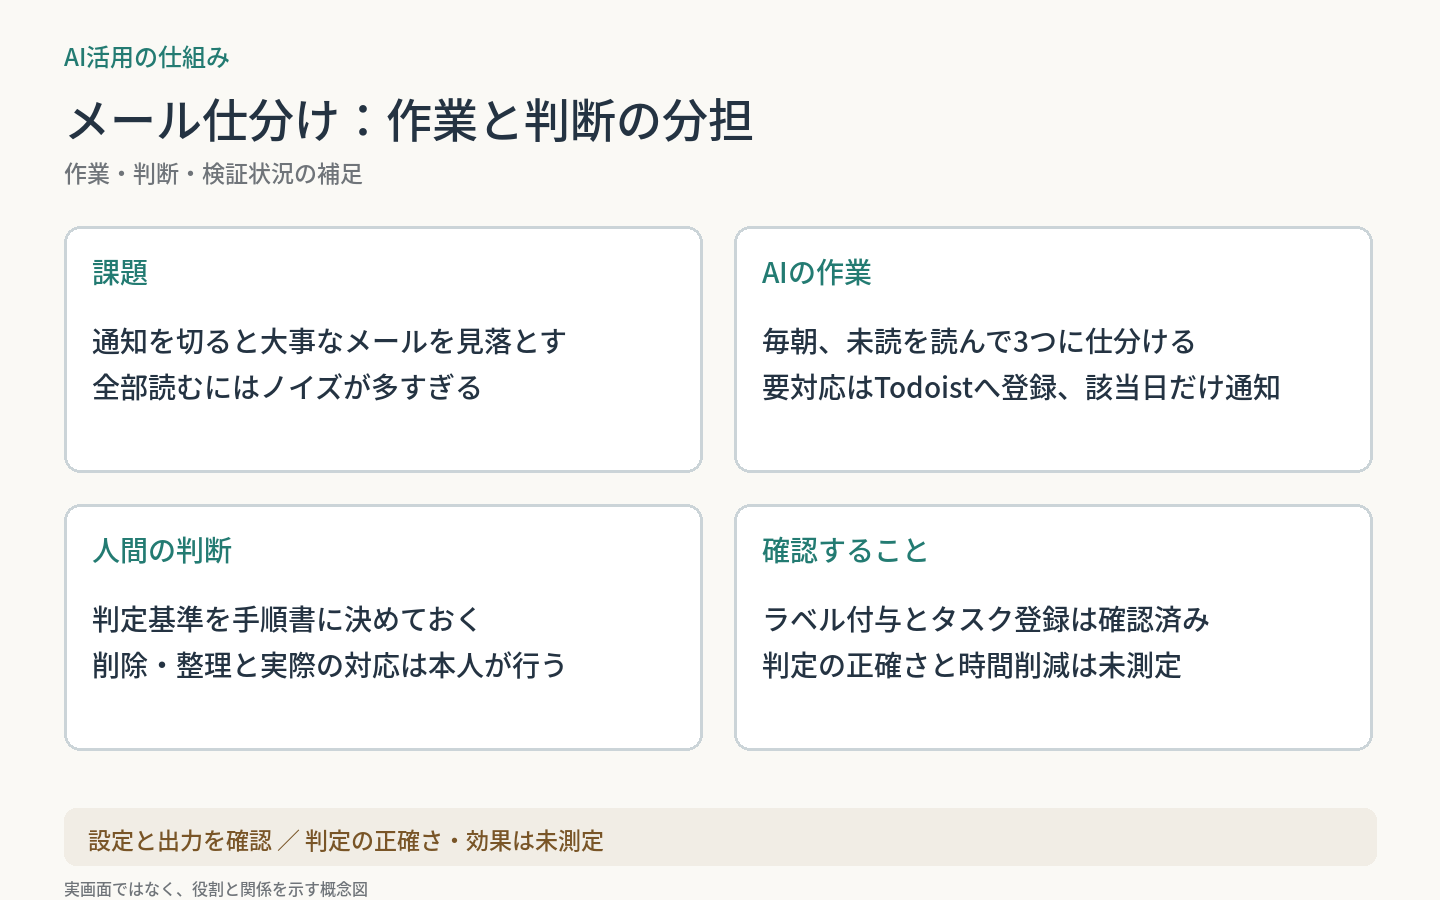
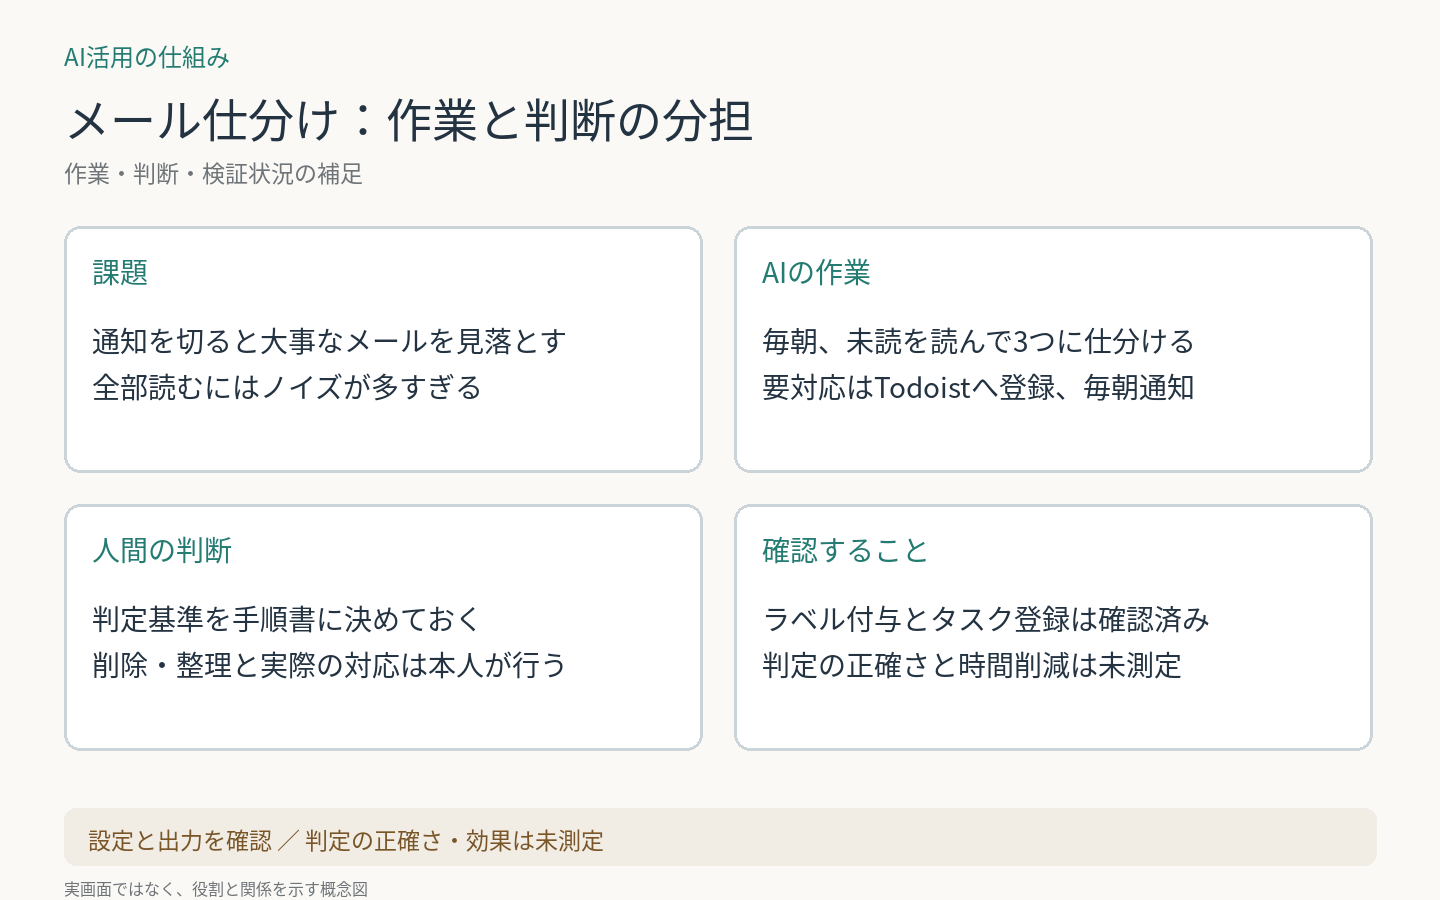
メール仕分け：通知を毎朝（0件の日も）送る形に直し、件数を2026-10-23時点に更新

diff --git a/cases/daily-email-triage/figure.py b/cases/daily-email-triage/figure.py
@@ -53,7 +53,7 @@ fk.centered(1270, 462, 'ラベルのみ', 26, fk.GRAY)
 fk.arrow([(894, 380), (930, 380), (930, 313), (998, 313)])
 fk.arrow([(894, 440), (930, 440), (930, 475), (998, 475)])
 
-# 右下：必要な日だけ通知 → 本人が対応
+# 右下：毎朝通知（0件の日も） → 本人が対応
 fk.phone(1246, 606, 80, 140)
 fk.centered(1286, 752, '通知', 26)
 fk.arrow([(1286, 576), (1286, 600)], fk.TEAL, 5)
@@ -74,7 +74,7 @@ fk.save(HERE / 'cover.png')
 # ---- flow.png：必要な説明を補う図 ----
 fk.cards('メール仕分け：作業と判断の分担', '設定と出力を確認 ／ 判定の正確さ・効果は未測定', [
     ('課題', ['通知を切ると大事なメールを見落とす', '全部読むにはノイズが多すぎる']),
-    ('AIの作業', ['毎朝、未読を読んで3つに仕分ける', '要対応はTodoistへ登録、該当日だけ通知']),
+    ('AIの作業', ['毎朝、未読を読んで3つに仕分ける', '要対応はTodoistへ登録、毎朝通知']),
     ('人間の判断', ['判定基準を手順書に決めておく', '削除・整理と実際の対応は本人が行う']),
     ('確認すること', ['ラベル付与とタスク登録は確認済み', '判定の正確さと時間削減は未測定']),
 ])

diff --git a/cases/daily-email-triage/README.md b/cases/daily-email-triage/README.md
@@ -8,19 +8,19 @@
 
 | 従来 | 運用の形 |
 | --- | --- |
-| 受信箱を自分で見て拾う | AIが仕分け、要対応はTodoistのタスクに。該当がある日だけスマホへ通知 |
+| 受信箱を自分で見て拾う | AIが仕分け、要対応はTodoistのタスクに。毎朝スマホへ通知（0件の日も） |
 
 **AI：** 未読メールの判定、ラベル付け、タスク登録、通知。削除・アーカイブ・返信はしない。  
 **人間：** 判定基準の決定（修正は必要なときだけ）、メールの整理、実際の対応。
 
-2026年8月から稼働。要対応ラベル22件、タスク登録の送信20通を確認した（2026-10-06）。
+2026年8月から稼働。要対応ラベル30件、タスク登録の送信27通を確認した（2026-10-23）。
 
 再利用できる工夫：
 
 - 判定基準は手順書1か所に置く。直せば翌朝から反映される。
 - 迷ったら「要確認」に倒す。
 - タスク登録は「追加しかできない」経路に絞る。
-- 0件の日は通知しない。週1回だけ生存確認を送り、停止に気づけるようにする。
+- 0件の日も毎朝通知を送る。通知が来なければ、止まったと気づける。
 
 <details>
 <summary>作業と判断の説明図を見る</summary>
